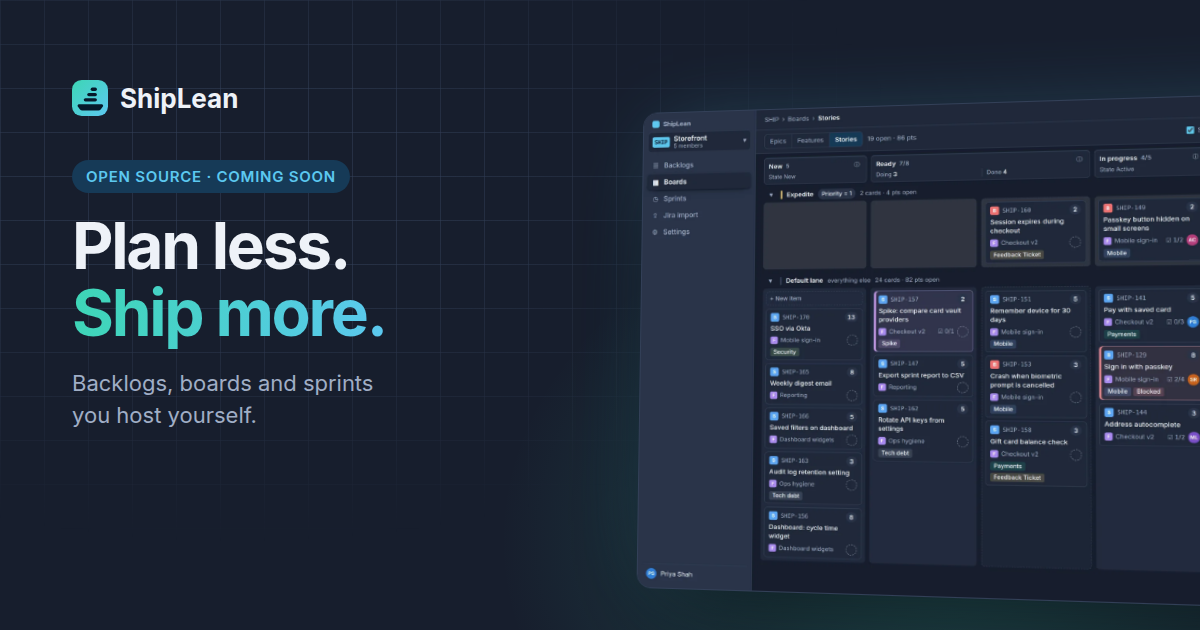
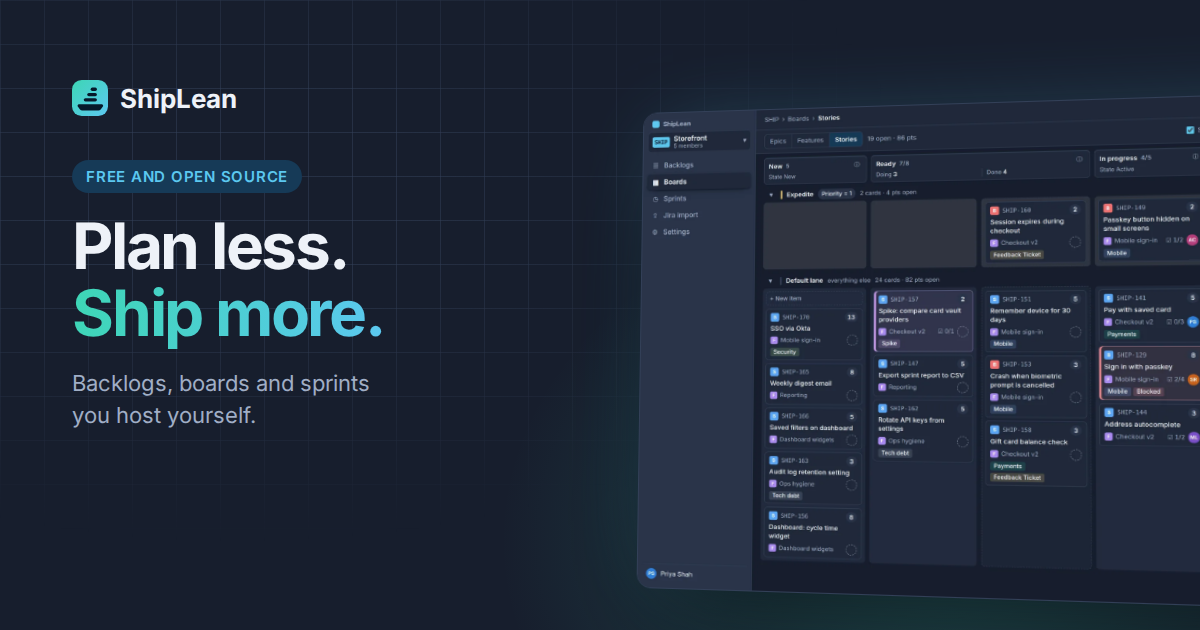
Site: mark the open-source release done, roadmap on Next
ShipLean is released, so the roadmap shows version 1, agents, sign-in and
the open-source release as done and Next as building. Coming-soon copy on
every page now says it is free to install today, CTAs point to the docs
and the ShipLean repo, and the social card drops Coming soon.

diff --git a/site/index.html b/site/index.html
@@ -4,14 +4,14 @@
 <meta charset="utf-8">
 <meta name="viewport" content="width=device-width, initial-scale=1">
 <title>ShipLean · AI-native, open-source Jira alternative for teams that ship</title>
-<meta name="description" content="ShipLean is a free, open-source, self-hosted Jira alternative: backlogs, boards and sprints, a forecast that shows which sprint each backlog item lands in, and an MCP server so your agents plan and work on the same backlog as the team. Coming soon.">
+<meta name="description" content="ShipLean is a free, open-source, self-hosted Jira alternative: backlogs, boards and sprints, a forecast that shows which sprint each backlog item lands in, and an MCP server so your agents plan and work on the same backlog as the team.">
 <meta name="theme-color" content="#e8eef7" media="(prefers-color-scheme: light)">
 <meta name="theme-color" content="#171e2d" media="(prefers-color-scheme: dark)">
 <link rel="canonical" href="https://shiplean.app/">
 <link rel="icon" href="favicon.svg" type="image/svg+xml">
 <meta property="og:type" content="website">
 <meta property="og:url" content="https://shiplean.app/">
-<meta property="og:title" content="ShipLean · AI-native, open-source Jira alternative, coming soon">
+<meta property="og:title" content="ShipLean · AI-native, open-source Jira alternative">
 <meta property="og:description" content="Backlogs, boards and sprints with a forecast from real velocity, and an MCP server so your agents plan and work on the same backlog as you.">
 <meta property="og:image" content="https://shiplean.app/og-image.png">
 <meta property="og:image:width" content="1200">
@@ -19,8 +19,8 @@
 <meta name="twitter:card" content="summary_large_image">
 <link rel="stylesheet" href="tokens.css">
 <link rel="stylesheet" href="site.css">
-<script type="application/ld+json">{"@context":"https://schema.org","@type":"SoftwareApplication","name":"ShipLean","description":"ShipLean is a free, open-source, self-hosted Jira alternative: backlogs, boards and sprints, a forecast that shows which sprint each backlog item lands in, and an MCP server so your agents plan and work on the same backlog as the team. Coming soon.","applicationCategory":"BusinessApplication","operatingSystem":"Linux (self-hosted)","url":"https://shiplean.app/","image":"https://shiplean.app/og-image.png","offers":{"@type":"Offer","price":"0","priceCurrency":"USD"}}</script>
-<script type="application/ld+json">{"@context":"https://schema.org","@type":"FAQPage","mainEntity":[{"@type":"Question","name":"Is ShipLean free?","acceptedAnswer":{"@type":"Answer","text":"Yes. ShipLean will be free and open source. It is not released yet, so follow the project on GitHub to hear when it is ready to install."}},{"@type":"Question","name":"Does it run on my own server?","acceptedAnswer":{"@type":"Answer","text":"Yes. ShipLean is self-hosted, and every team's projects can live on one server you control. See the self-hosted page for what you need."}},{"@type":"Question","name":"Does it import from Jira?","acceptedAnswer":{"@type":"Answer","text":"Yes. You can move a Jira project into ShipLean with its history, comments and sprints. You review how everything will come across before anything is imported, and your Jira stays exactly as it was."}},{"@type":"Question","name":"Which agents can connect?","acceptedAnswer":{"@type":"Answer","text":"Claude Code, Claude Desktop, Cursor and any other MCP client that supports OAuth. You approve each agent in the browser and can revoke it at any time."}}]}</script>
+<script type="application/ld+json">{"@context":"https://schema.org","@type":"SoftwareApplication","name":"ShipLean","description":"ShipLean is a free, open-source, self-hosted Jira alternative: backlogs, boards and sprints, a forecast that shows which sprint each backlog item lands in, and an MCP server so your agents plan and work on the same backlog as the team.","applicationCategory":"BusinessApplication","operatingSystem":"Linux (self-hosted)","url":"https://shiplean.app/","image":"https://shiplean.app/og-image.png","offers":{"@type":"Offer","price":"0","priceCurrency":"USD"}}</script>
+<script type="application/ld+json">{"@context":"https://schema.org","@type":"FAQPage","mainEntity":[{"@type":"Question","name":"Is ShipLean free?","acceptedAnswer":{"@type":"Answer","text":"Yes. ShipLean is free and open source, and you host it yourself. The docs show how to install it."}},{"@type":"Question","name":"Does it run on my own server?","acceptedAnswer":{"@type":"Answer","text":"Yes. ShipLean is self-hosted, and every team's projects can live on one server you control. See the self-hosted page for what you need."}},{"@type":"Question","name":"Does it import from Jira?","acceptedAnswer":{"@type":"Answer","text":"Yes. You can move a Jira project into ShipLean with its history, comments and sprints. You review how everything will come across before anything is imported, and your Jira stays exactly as it was."}},{"@type":"Question","name":"Which agents can connect?","acceptedAnswer":{"@type":"Answer","text":"Claude Code, Claude Desktop, Cursor and any other MCP client that supports OAuth. You approve each agent in the browser and can revoke it at any time."}}]}</script>
 </head>
 <body>
 
@@ -82,11 +82,11 @@
   <!-- ================= HERO ================= -->
   <div class="hero">
     <div class="wrap">
-      <span class="pill"><span class="tag">Coming soon</span><span class="dot" aria-hidden="true"></span>AI-native, free and open source, built in the open</span>
+      <span class="pill"><span class="tag">Open source</span><span class="dot" aria-hidden="true"></span>AI-native, free and open source, built in the open</span>
       <h1 class="h1-wide">AI-native project management.<br><span class="grad">built for humans and agents.</span></h1>
       <p class="lede">ShipLean is a free, open-source planning tool you host yourself. Rank a backlog, run a Kanban board, plan sprints or mix them, and see which sprint each backlog item is likely to land in. Connect Claude Code, Cursor or Claude Desktop over MCP and your agents can plan, pick up and report work on the same backlog, with their name on every change they make.</p>
       <div class="cta-row">
-        <a class="btn btn-primary" href="https://github.com/shiplean"><svg><use href="#i-gh"/></svg>Follow on GitHub</a>
+        <a class="btn btn-primary" href="https://docs.shiplean.app">Read the docs</a><a class="btn btn-ghost" href="https://github.com/ShipLean/ShipLean"><svg><use href="#i-gh"/></svg>View on GitHub</a>
         <a class="btn btn-ghost" href="#tour">Take the tour<svg><use href="#i-arrow"/></svg></a>
       </div>
       <div class="fine">
@@ -440,7 +440,7 @@
 
       <div class="spot" id="sign-in">
         <div class="copy">
-          <div class="eyebrow">Sign-in <span class="soon">Planned</span></div>
+          <div class="eyebrow">Sign-in</div>
           <h2>Bring your own sign&#8209;in.</h2>
           <p>Use the sign-in your company already has. Put ShipLean behind your identity proxy, such as Cloudflare Access, Authelia or Authentik, and people arrive signed in with their existing account. Nobody needs another password, and new people get an account on their first visit.</p>
           <div class="stat-row">
@@ -471,7 +471,7 @@
   <section id="faq" style="padding-top:0">
     <div class="wrap">
       <div class="sec-head center"><div class="eyebrow">Questions</div><h2>Common questions.</h2></div>
-      <div class="faq"><details><summary>Is ShipLean free?</summary><p>Yes. ShipLean will be free and open source. It is not released yet, so follow the project on GitHub to hear when it is ready to install.</p></details><details><summary>Does it run on my own server?</summary><p>Yes. ShipLean is self-hosted, and every team&#x27;s projects can live on one server you control. See the <a href="/self-hosted">self-hosted page</a> for what you need.</p></details><details><summary>Does it import from Jira?</summary><p>Yes. You can move a <a href="/jira-alternative">Jira project</a> into ShipLean with its history, comments and sprints. You review how everything will come across before anything is imported, and your Jira stays exactly as it was.</p></details><details><summary>Which agents can connect?</summary><p><a href="/mcp">Claude Code, Claude Desktop, Cursor and any other MCP client</a> that supports OAuth. You approve each agent in the browser and can revoke it at any time.</p></details></div>
+      <div class="faq"><details><summary>Is ShipLean free?</summary><p>Yes. ShipLean is free and open source, and you host it yourself. The docs show how to install it.</p></details><details><summary>Does it run on my own server?</summary><p>Yes. ShipLean is self-hosted, and every team&#x27;s projects can live on one server you control. See the <a href="/self-hosted">self-hosted page</a> for what you need.</p></details><details><summary>Does it import from Jira?</summary><p>Yes. You can move a <a href="/jira-alternative">Jira project</a> into ShipLean with its history, comments and sprints. You review how everything will come across before anything is imported, and your Jira stays exactly as it was.</p></details><details><summary>Which agents can connect?</summary><p><a href="/mcp">Claude Code, Claude Desktop, Cursor and any other MCP client</a> that supports OAuth. You approve each agent in the browser and can revoke it at any time.</p></details></div>
     </div>
   </section>
 
@@ -481,26 +481,26 @@
       <div class="oss">
         <div>
           <div class="eyebrow">Open source</div>
-          <h2>Built in the open.<br>Coming soon.</h2>
-          <p>ShipLean will be free and open source. Every screen is designed and version 1 is in progress. Follow the project on GitHub to see each change land and to hear when it is ready to install.</p>
+          <h2>Built in the open.<br>Free to host today.</h2>
+          <p>ShipLean is free and open source. Version 1 is out, with agents over MCP and bring-your-own sign-in. Pull the container image and run it on your own server, and follow the project on GitHub to see each change land.</p>
           <div class="cta-row" style="justify-content:flex-start">
-            <a class="btn btn-primary" href="https://github.com/shiplean"><svg><use href="#i-gh"/></svg>Follow on GitHub</a>
+            <a class="btn btn-primary" href="https://docs.shiplean.app">Read the docs</a><a class="btn btn-ghost" href="https://github.com/ShipLean/ShipLean"><svg><use href="#i-gh"/></svg>View on GitHub</a>
           </div>
         </div>
         <ol class="road">
           <li class="done"><span class="node"><svg><use href="#i-check"/></svg></span><div><b>Design<span class="badge">Done</span></b><span>Every v1 screen, light and dark</span></div></li>
-          <li class="now"><span class="node"></span><div><b>Version 1<span class="badge">Building</span></b><span>Backlogs, boards, sprints, the taskboard, work items, settings and Jira import</span></div></li>
-          <li class="now"><span class="node"></span><div><b>Agents over MCP<span class="badge">Building</span></b><span>26 tools, browser consent, PR webhooks and a planning guide for agents working in parallel</span></div></li>
-          <li><span class="node"></span><div><b>Bring your own sign-in</b><span>Trust the identity proxy you already run</span></div></li>
-          <li><span class="node"></span><div><b>Open source release</b><span>Free to download and host yourself</span></div></li>
-          <li><span class="node"></span><div><b>Later</b><span>Roadmaps and delivery plans across teams</span></div></li>
+          <li class="done"><span class="node"><svg><use href="#i-check"/></svg></span><div><b>Version 1<span class="badge">Done</span></b><span>Backlogs, boards, sprints, the taskboard, work items, settings and Jira import</span></div></li>
+          <li class="done"><span class="node"><svg><use href="#i-check"/></svg></span><div><b>Agents over MCP<span class="badge">Done</span></b><span>26 tools, browser consent, PR webhooks and a planning guide for agents working in parallel</span></div></li>
+          <li class="done"><span class="node"><svg><use href="#i-check"/></svg></span><div><b>Bring your own sign-in<span class="badge">Done</span></b><span>Trust the identity proxy you already run</span></div></li>
+          <li class="done"><span class="node"><svg><use href="#i-check"/></svg></span><div><b>Open source release<span class="badge">Done</span></b><span>Free to download and host yourself</span></div></li>
+          <li class="now"><span class="node"></span><div><b>Next<span class="badge">Building</span></b><span>Roadmaps and delivery plans across teams</span></div></li>
         </ol>
       </div>
 
       <div class="closing">
         <h2>Plan the sprint.<br><span class="grad">Then go ship it.</span></h2>
         <div class="cta-row">
-          <a class="btn btn-primary" href="https://github.com/shiplean"><svg><use href="#i-gh"/></svg>Follow on GitHub</a>
+          <a class="btn btn-primary" href="https://docs.shiplean.app">Read the docs</a><a class="btn btn-ghost" href="https://github.com/ShipLean/ShipLean"><svg><use href="#i-gh"/></svg>View on GitHub</a>
         </div>
       </div>
     </div>

diff --git a/site/vs/linear.html b/site/vs/linear.html
@@ -72,11 +72,11 @@
 <main>
   <div class="hero page">
     <div class="wrap">
-      <span class="pill"><span class="tag">Coming soon</span><span class="dot" aria-hidden="true"></span>ShipLean and Linear, side by side</span>
+      <span class="pill"><span class="tag">Open source</span><span class="dot" aria-hidden="true"></span>ShipLean and Linear, side by side</span>
       <h1>ShipLean vs <span class="grad">Linear.</span></h1>
       <p class="lede">Linear is a fast, polished issue tracker for software teams, with cycles, projects and roadmaps. It is a cloud service. Here is a fair look at where they differ.</p>
       <div class="cta-row">
-        <a class="btn btn-primary" href="https://github.com/shiplean"><svg><use href="#i-gh"/></svg>Follow on GitHub</a>
+        <a class="btn btn-primary" href="https://docs.shiplean.app">Read the docs</a><a class="btn btn-ghost" href="https://github.com/ShipLean/ShipLean"><svg><use href="#i-gh"/></svg>View on GitHub</a>
         
       </div>
     </div>
@@ -86,7 +86,7 @@
       <div class="sec-head center"><div class="eyebrow">At a glance</div><h2>Linear and ShipLean.</h2></div>
       <table class="compare">
         <thead><tr><th></th><th>Linear</th><th>ShipLean</th></tr></thead>
-        <tbody><tr><th scope="row">Open source</th><td>No</td><td>Yes, once released</td></tr><tr><th scope="row">Self-hosted</th><td>No, cloud only</td><td>Yes, one container and Postgres</td></tr><tr><th scope="row">Price</th><td>Per seat</td><td>Free</td></tr><tr><th scope="row">Agents over MCP</th><td>Check Linear&#8217;s current docs</td><td>Built in, with planning tools for parallel agents</td></tr><tr><th scope="row">Jira import</th><td>Check Linear&#8217;s current docs</td><td>Project, history, comments and sprints</td></tr><tr><th scope="row">Available today</th><td>Yes</td><td>Coming soon</td></tr></tbody>
+        <tbody><tr><th scope="row">Open source</th><td>No</td><td>Yes</td></tr><tr><th scope="row">Self-hosted</th><td>No, cloud only</td><td>Yes, one container and Postgres</td></tr><tr><th scope="row">Price</th><td>Per seat</td><td>Free</td></tr><tr><th scope="row">Agents over MCP</th><td>Check Linear&#8217;s current docs</td><td>Built in, with planning tools for parallel agents</td></tr><tr><th scope="row">Jira import</th><td>Check Linear&#8217;s current docs</td><td>Project, history, comments and sprints</td></tr><tr><th scope="row">Available today</th><td>Yes</td><td>Yes</td></tr></tbody>
       </table>
       <p class="muted" style="font-size:14px;margin-top:14px">Written from what we know today. Tools change, so check Linear&#8217;s own documentation for the latest.</p>
     </div>
@@ -95,7 +95,7 @@
     <div class="wrap">
       <div class="pick" style="margin-top:0">
         <div class="card"><h3>What Linear is good at</h3><ul><li>A fast, keyboard-driven interface that teams enjoy using.</li><li>Cycles, projects and roadmaps in one product.</li><li>Nothing to run: it is a hosted service.</li></ul></div>
-        <div class="card"><h3>Where ShipLean differs</h3><ul><li>ShipLean runs on your own server. Linear is cloud-only, so your data lives with Linear.</li><li>ShipLean will be free and open source, with no per-seat bill.</li><li>ShipLean has an MCP server and a planning guide so agents work the same backlog as people.</li></ul></div>
+        <div class="card"><h3>Where ShipLean differs</h3><ul><li>ShipLean runs on your own server. Linear is cloud-only, so your data lives with Linear.</li><li>ShipLean is free and open source, with no per-seat bill.</li><li>ShipLean has an MCP server and a planning guide so agents work the same backlog as people.</li></ul></div>
       </div>
     </div>
   </section>
@@ -112,8 +112,8 @@
     <div class="wrap">
       <div class="closing" style="padding-top:0">
         <h2>Plan the sprint.<br><span class="grad">Then go ship it.</span></h2>
-        <div class="cta-row"><a class="btn btn-primary" href="https://github.com/shiplean"><svg><use href="#i-gh"/></svg>Follow on GitHub</a></div>
-        <p class="muted" style="margin-top:16px">ShipLean is coming soon. Follow the project on GitHub to hear when it is ready to install.</p>
+        <div class="cta-row"><a class="btn btn-primary" href="https://docs.shiplean.app">Read the docs</a><a class="btn btn-ghost" href="https://github.com/ShipLean/ShipLean"><svg><use href="#i-gh"/></svg>View on GitHub</a></div>
+        <p class="muted" style="margin-top:16px">ShipLean is free to install today. The <a href="https://docs.shiplean.app">docs</a> show how to run it on your own server.</p>
       </div>
       <div class="more"><a href="/jira-alternative"><b>Jira alternative</b><span>Backlogs, boards, sprints and a Jira import</span></a><a href="/mcp"><b>ShipLean for agents</b><span>Claude Code, Cursor and any MCP client</span></a><a href="/vs/taiga"><b>ShipLean vs Taiga</b><span>A fair comparison</span></a></div>
     </div>

diff --git a/site/self-hosted.html b/site/self-hosted.html
@@ -72,11 +72,11 @@
 <main>
   <div class="hero page">
     <div class="wrap">
-      <span class="pill"><span class="tag">Coming soon</span><span class="dot" aria-hidden="true"></span>Free, open source, self-hosted</span>
+      <span class="pill"><span class="tag">Open source</span><span class="dot" aria-hidden="true"></span>Free, open source, self-hosted</span>
       <h1>Self-hosted, open-source <span class="grad">project management.</span></h1>
       <p class="lede">Run ShipLean on your own server, next to the rest of your tools. Your backlog, your history and your agents&#8217; work stay with you.</p>
       <div class="cta-row">
-        <a class="btn btn-primary" href="https://github.com/shiplean"><svg><use href="#i-gh"/></svg>Follow on GitHub</a>
+        <a class="btn btn-primary" href="https://docs.shiplean.app">Read the docs</a><a class="btn btn-ghost" href="https://github.com/ShipLean/ShipLean"><svg><use href="#i-gh"/></svg>View on GitHub</a>
         
       </div>
     </div>
@@ -95,8 +95,8 @@
     <div class="wrap">
       <div class="prose">
         <div class="eyebrow">Where the image lives</div>
-        <h2>Not published yet.</h2>
-        <p>ShipLean is not released. Once it is, the container image will be public and this page will say where to pull it from. Until then, follow the <a href="https://github.com/shiplean">ShipLean organisation on GitHub</a> to see each change land.</p>
+        <h2>Pull it from GitHub.</h2>
+        <p>The container image is public at <code>ghcr.io/shiplean/shiplean</code>. The <a href="https://docs.shiplean.app">install guide</a> shows how to run it with Postgres, and the <a href="https://github.com/ShipLean/ShipLean">ShipLean repository</a> shows each change as it lands.</p>
       </div>
     </div>
   </section>
@@ -104,9 +104,9 @@
     <div class="wrap">
       <div class="spot top-gap">
         <div class="copy">
-          <div class="eyebrow">Sign-in <span class="soon">Planned</span></div>
+          <div class="eyebrow">Sign-in</div>
           <h2>Bring your own sign&#8209;in.</h2>
-          <p>Put ShipLean behind the identity proxy you already run, such as Cloudflare Access, Authelia or Authentik, and people arrive signed in with their existing account. This is planned and not built yet.</p>
+          <p>Put ShipLean behind the identity proxy you already run, such as Cloudflare Access, Authelia or Authentik, and people arrive signed in with their existing account.</p>
         </div>
         <div class="idflow" aria-label="Sign-in flow: a person signs in at your identity provider, your proxy tells ShipLean who they are, and ShipLean signs them in">
           <div class="idstep"><span class="ic"><svg><use href="#i-people"/></svg></span><span><b>Your team</b><span class="muted">signs in once, at your identity provider</span></span></div>
@@ -131,8 +131,8 @@
     <div class="wrap">
       <div class="closing" style="padding-top:0">
         <h2>Your server.<br><span class="grad">Your backlog.</span></h2>
-        <div class="cta-row"><a class="btn btn-primary" href="https://github.com/shiplean"><svg><use href="#i-gh"/></svg>Follow on GitHub</a></div>
-        <p class="muted" style="margin-top:16px">ShipLean is coming soon. Follow the project on GitHub to hear when it is ready to install.</p>
+        <div class="cta-row"><a class="btn btn-primary" href="https://docs.shiplean.app">Read the docs</a><a class="btn btn-ghost" href="https://github.com/ShipLean/ShipLean"><svg><use href="#i-gh"/></svg>View on GitHub</a></div>
+        <p class="muted" style="margin-top:16px">ShipLean is free to install today. The <a href="https://docs.shiplean.app">docs</a> show how to run it on your own server.</p>
       </div>
       <div class="more"><a href="/jira-alternative"><b>Jira alternative</b><span>Backlogs, boards, sprints and a Jira import</span></a><a href="/mcp"><b>ShipLean for agents</b><span>Claude Code, Cursor and any MCP client</span></a><a href="/jira-data-center"><b>Moving off Jira Data Center</b><span>The dates, and what comes across</span></a></div>
     </div>

diff --git a/site/vs/openproject.html b/site/vs/openproject.html
@@ -72,11 +72,11 @@
 <main>
   <div class="hero page">
     <div class="wrap">
-      <span class="pill"><span class="tag">Coming soon</span><span class="dot" aria-hidden="true"></span>ShipLean and OpenProject, side by side</span>
+      <span class="pill"><span class="tag">Open source</span><span class="dot" aria-hidden="true"></span>ShipLean and OpenProject, side by side</span>
       <h1>ShipLean vs <span class="grad">OpenProject.</span></h1>
       <p class="lede">OpenProject is an open-source project management suite. It covers classic and agile project management, with work packages, Gantt charts, time tracking, boards and a wiki. Here is a fair look at where they differ.</p>
       <div class="cta-row">
-        <a class="btn btn-primary" href="https://github.com/shiplean"><svg><use href="#i-gh"/></svg>Follow on GitHub</a>
+        <a class="btn btn-primary" href="https://docs.shiplean.app">Read the docs</a><a class="btn btn-ghost" href="https://github.com/ShipLean/ShipLean"><svg><use href="#i-gh"/></svg>View on GitHub</a>
         
       </div>
     </div>
@@ -86,7 +86,7 @@
       <div class="sec-head center"><div class="eyebrow">At a glance</div><h2>OpenProject and ShipLean.</h2></div>
       <table class="compare">
         <thead><tr><th></th><th>OpenProject</th><th>ShipLean</th></tr></thead>
-        <tbody><tr><th scope="row">Open source</th><td>Yes</td><td>Yes, once released</td></tr><tr><th scope="row">Self-hosted</th><td>Yes</td><td>Yes, one container and Postgres</td></tr><tr><th scope="row">Best at</th><td>Classic and agile project management, Gantt, time tracking</td><td>Backlog, boards, sprints, forecasts</td></tr><tr><th scope="row">Agents over MCP</th><td>Check OpenProject&#8217;s current docs</td><td>Built in</td></tr><tr><th scope="row">Jira import</th><td>Check OpenProject&#8217;s current docs</td><td>Project, history, comments and sprints</td></tr><tr><th scope="row">Available today</th><td>Yes</td><td>Coming soon</td></tr></tbody>
+        <tbody><tr><th scope="row">Open source</th><td>Yes</td><td>Yes</td></tr><tr><th scope="row">Self-hosted</th><td>Yes</td><td>Yes, one container and Postgres</td></tr><tr><th scope="row">Best at</th><td>Classic and agile project management, Gantt, time tracking</td><td>Backlog, boards, sprints, forecasts</td></tr><tr><th scope="row">Agents over MCP</th><td>Check OpenProject&#8217;s current docs</td><td>Built in</td></tr><tr><th scope="row">Jira import</th><td>Check OpenProject&#8217;s current docs</td><td>Project, history, comments and sprints</td></tr><tr><th scope="row">Available today</th><td>Yes</td><td>Yes</td></tr></tbody>
       </table>
       <p class="muted" style="font-size:14px;margin-top:14px">Written from what we know today. Tools change, so check OpenProject&#8217;s own documentation for the latest.</p>
     </div>
@@ -112,8 +112,8 @@
     <div class="wrap">
       <div class="closing" style="padding-top:0">
         <h2>Plan the sprint.<br><span class="grad">Then go ship it.</span></h2>
-        <div class="cta-row"><a class="btn btn-primary" href="https://github.com/shiplean"><svg><use href="#i-gh"/></svg>Follow on GitHub</a></div>
-        <p class="muted" style="margin-top:16px">ShipLean is coming soon. Follow the project on GitHub to hear when it is ready to install.</p>
+        <div class="cta-row"><a class="btn btn-primary" href="https://docs.shiplean.app">Read the docs</a><a class="btn btn-ghost" href="https://github.com/ShipLean/ShipLean"><svg><use href="#i-gh"/></svg>View on GitHub</a></div>
+        <p class="muted" style="margin-top:16px">ShipLean is free to install today. The <a href="https://docs.shiplean.app">docs</a> show how to run it on your own server.</p>
       </div>
       <div class="more"><a href="/jira-alternative"><b>Jira alternative</b><span>Backlogs, boards, sprints and a Jira import</span></a><a href="/mcp"><b>ShipLean for agents</b><span>Claude Code, Cursor and any MCP client</span></a><a href="/vs/taiga"><b>ShipLean vs Taiga</b><span>A fair comparison</span></a></div>
     </div>

diff --git a/site/vs/plane.html b/site/vs/plane.html
@@ -72,11 +72,11 @@
 <main>
   <div class="hero page">
     <div class="wrap">
-      <span class="pill"><span class="tag">Coming soon</span><span class="dot" aria-hidden="true"></span>ShipLean and Plane, side by side</span>
+      <span class="pill"><span class="tag">Open source</span><span class="dot" aria-hidden="true"></span>ShipLean and Plane, side by side</span>
       <h1>ShipLean vs <span class="grad">Plane.</span></h1>
       <p class="lede">Plane is an open-source work-tracking tool aimed at teams that use Jira or Linear, with issues, cycles, modules and views. It is available hosted by Plane or self-hosted. Here is a fair look at where they differ.</p>
       <div class="cta-row">
-        <a class="btn btn-primary" href="https://github.com/shiplean"><svg><use href="#i-gh"/></svg>Follow on GitHub</a>
+        <a class="btn btn-primary" href="https://docs.shiplean.app">Read the docs</a><a class="btn btn-ghost" href="https://github.com/ShipLean/ShipLean"><svg><use href="#i-gh"/></svg>View on GitHub</a>
         
       </div>
     </div>
@@ -86,7 +86,7 @@
       <div class="sec-head center"><div class="eyebrow">At a glance</div><h2>Plane and ShipLean.</h2></div>
       <table class="compare">
         <thead><tr><th></th><th>Plane</th><th>ShipLean</th></tr></thead>
-        <tbody><tr><th scope="row">Open source</th><td>Yes</td><td>Yes, once released</td></tr><tr><th scope="row">Self-hosted</th><td>Yes</td><td>Yes, one container and Postgres</td></tr><tr><th scope="row">Sprints</th><td>Cycles</td><td>Sprints, capacity and forecast</td></tr><tr><th scope="row">Agents over MCP</th><td>Check Plane&#8217;s current docs</td><td>Built in, with planning tools for parallel agents</td></tr><tr><th scope="row">Jira import</th><td>Check Plane&#8217;s current docs</td><td>Project, history, comments and sprints</td></tr><tr><th scope="row">Available today</th><td>Yes</td><td>Coming soon</td></tr></tbody>
+        <tbody><tr><th scope="row">Open source</th><td>Yes</td><td>Yes</td></tr><tr><th scope="row">Self-hosted</th><td>Yes</td><td>Yes, one container and Postgres</td></tr><tr><th scope="row">Sprints</th><td>Cycles</td><td>Sprints, capacity and forecast</td></tr><tr><th scope="row">Agents over MCP</th><td>Check Plane&#8217;s current docs</td><td>Built in, with planning tools for parallel agents</td></tr><tr><th scope="row">Jira import</th><td>Check Plane&#8217;s current docs</td><td>Project, history, comments and sprints</td></tr><tr><th scope="row">Available today</th><td>Yes</td><td>Yes</td></tr></tbody>
       </table>
       <p class="muted" style="font-size:14px;margin-top:14px">Written from what we know today. Tools change, so check Plane&#8217;s own documentation for the latest.</p>
     </div>
@@ -112,8 +112,8 @@
     <div class="wrap">
       <div class="closing" style="padding-top:0">
         <h2>Plan the sprint.<br><span class="grad">Then go ship it.</span></h2>
-        <div class="cta-row"><a class="btn btn-primary" href="https://github.com/shiplean"><svg><use href="#i-gh"/></svg>Follow on GitHub</a></div>
-        <p class="muted" style="margin-top:16px">ShipLean is coming soon. Follow the project on GitHub to hear when it is ready to install.</p>
+        <div class="cta-row"><a class="btn btn-primary" href="https://docs.shiplean.app">Read the docs</a><a class="btn btn-ghost" href="https://github.com/ShipLean/ShipLean"><svg><use href="#i-gh"/></svg>View on GitHub</a></div>
+        <p class="muted" style="margin-top:16px">ShipLean is free to install today. The <a href="https://docs.shiplean.app">docs</a> show how to run it on your own server.</p>
       </div>
       <div class="more"><a href="/jira-alternative"><b>Jira alternative</b><span>Backlogs, boards, sprints and a Jira import</span></a><a href="/mcp"><b>ShipLean for agents</b><span>Claude Code, Cursor and any MCP client</span></a><a href="/vs/taiga"><b>ShipLean vs Taiga</b><span>A fair comparison</span></a></div>
     </div>

diff --git a/site/jira-alternative.html b/site/jira-alternative.html
@@ -72,11 +72,11 @@
 <main>
   <div class="hero page">
     <div class="wrap">
-      <span class="pill"><span class="tag">Coming soon</span><span class="dot" aria-hidden="true"></span>An open-source, self-hosted Jira alternative</span>
+      <span class="pill"><span class="tag">Open source</span><span class="dot" aria-hidden="true"></span>An open-source, self-hosted Jira alternative</span>
       <h1>An open-source, self-hosted <span class="grad">Jira alternative.</span></h1>
       <p class="lede">ShipLean has what a Jira team expects: a ranked backlog, Scrum and Kanban boards, sprints, capacity and forecasts. It is free, it runs on your own server, and your agents work the same backlog over MCP.</p>
       <div class="cta-row">
-        <a class="btn btn-primary" href="https://github.com/shiplean"><svg><use href="#i-gh"/></svg>Follow on GitHub</a>
+        <a class="btn btn-primary" href="https://docs.shiplean.app">Read the docs</a><a class="btn btn-ghost" href="https://github.com/ShipLean/ShipLean"><svg><use href="#i-gh"/></svg>View on GitHub</a>
         <a class="btn btn-ghost" href="#import">Bring your Jira project<svg><use href="#i-arrow"/></svg></a>
       </div>
     </div>
@@ -98,7 +98,7 @@
     <div class="wrap">
       <div class="sec-head center"><div class="eyebrow">What is different</div><h2>Not a copy of Jira.</h2></div>
       <div class="pillars two" style="margin-top:40px">
-        <div class="card"><div class="ic"><svg><use href="#i-server"/></svg></div><h3>Free, open source and yours</h3><p>ShipLean will be free to download and host. Your data lives on your own server, and there is no per-seat bill.</p></div>
+        <div class="card"><div class="ic"><svg><use href="#i-server"/></svg></div><h3>Free, open source and yours</h3><p>ShipLean is free to download and host. Your data lives on your own server, and there is no per-seat bill.</p></div>
         <div class="card"><div class="ic"><svg><use href="#i-agent"/></svg></div><h3>Agents work the same backlog</h3><p>An MCP server lets Claude Code, Cursor and other agents read and update the same backlog, boards and sprints as the team. <a href="/mcp" style="color:var(--color-accent)">See how agents connect</a>.</p></div>
       </div>
     </div>
@@ -128,8 +128,6 @@
       <div class="notyet">
         <h3>What ShipLean does not do yet</h3>
         <ul>
-          <li>It is not released. Version 1 is being built in the open, and the open-source release comes after it.</li>
-          <li>Bring-your-own sign-in through an identity proxy is planned, not built.</li>
           <li>Roadmaps and delivery plans across several teams are for later.</li>
         </ul>
       </div>
@@ -139,8 +137,8 @@
     <div class="wrap">
       <div class="closing" style="padding-top:0">
         <h2>Plan the sprint.<br><span class="grad">Then go ship it.</span></h2>
-        <div class="cta-row"><a class="btn btn-primary" href="https://github.com/shiplean"><svg><use href="#i-gh"/></svg>Follow on GitHub</a></div>
-        <p class="muted" style="margin-top:16px">ShipLean is coming soon. Follow the project on GitHub to hear when it is ready to install.</p>
+        <div class="cta-row"><a class="btn btn-primary" href="https://docs.shiplean.app">Read the docs</a><a class="btn btn-ghost" href="https://github.com/ShipLean/ShipLean"><svg><use href="#i-gh"/></svg>View on GitHub</a></div>
+        <p class="muted" style="margin-top:16px">ShipLean is free to install today. The <a href="https://docs.shiplean.app">docs</a> show how to run it on your own server.</p>
       </div>
       <div class="more"><a href="/jira-data-center"><b>Moving off Jira Data Center</b><span>The dates, and what comes across</span></a><a href="/mcp"><b>ShipLean for agents</b><span>Claude Code, Cursor and any MCP client</span></a><a href="/self-hosted"><b>Self-hosted</b><span>One container and Postgres</span></a></div>
     </div>

diff --git a/site/vs/taiga.html b/site/vs/taiga.html
@@ -72,11 +72,11 @@
 <main>
   <div class="hero page">
     <div class="wrap">
-      <span class="pill"><span class="tag">Coming soon</span><span class="dot" aria-hidden="true"></span>ShipLean and Taiga, side by side</span>
+      <span class="pill"><span class="tag">Open source</span><span class="dot" aria-hidden="true"></span>ShipLean and Taiga, side by side</span>
       <h1>ShipLean vs <span class="grad">Taiga.</span></h1>
       <p class="lede">Taiga is an open-source agile project management tool with Scrum and Kanban, user stories, epics and a wiki. You can use it hosted by Taiga or run it yourself. Here is a fair look at where they differ.</p>
       <div class="cta-row">
-        <a class="btn btn-primary" href="https://github.com/shiplean"><svg><use href="#i-gh"/></svg>Follow on GitHub</a>
+        <a class="btn btn-primary" href="https://docs.shiplean.app">Read the docs</a><a class="btn btn-ghost" href="https://github.com/ShipLean/ShipLean"><svg><use href="#i-gh"/></svg>View on GitHub</a>
         
       </div>
     </div>
@@ -86,7 +86,7 @@
       <div class="sec-head center"><div class="eyebrow">At a glance</div><h2>Taiga and ShipLean.</h2></div>
       <table class="compare">
         <thead><tr><th></th><th>Taiga</th><th>ShipLean</th></tr></thead>
-        <tbody><tr><th scope="row">Open source</th><td>Yes</td><td>Yes, once released</td></tr><tr><th scope="row">Self-hosted</th><td>Yes</td><td>Yes, one container and Postgres</td></tr><tr><th scope="row">Scrum and Kanban</th><td>Yes</td><td>Yes</td></tr><tr><th scope="row">Agents over MCP</th><td>Check Taiga&#8217;s current docs</td><td>Built in</td></tr><tr><th scope="row">Jira import</th><td>Check Taiga&#8217;s current docs</td><td>Project, history, comments and sprints</td></tr><tr><th scope="row">Available today</th><td>Yes</td><td>Coming soon</td></tr></tbody>
+        <tbody><tr><th scope="row">Open source</th><td>Yes</td><td>Yes</td></tr><tr><th scope="row">Self-hosted</th><td>Yes</td><td>Yes, one container and Postgres</td></tr><tr><th scope="row">Scrum and Kanban</th><td>Yes</td><td>Yes</td></tr><tr><th scope="row">Agents over MCP</th><td>Check Taiga&#8217;s current docs</td><td>Built in</td></tr><tr><th scope="row">Jira import</th><td>Check Taiga&#8217;s current docs</td><td>Project, history, comments and sprints</td></tr><tr><th scope="row">Available today</th><td>Yes</td><td>Yes</td></tr></tbody>
       </table>
       <p class="muted" style="font-size:14px;margin-top:14px">Written from what we know today. Tools change, so check Taiga&#8217;s own documentation for the latest.</p>
     </div>
@@ -112,8 +112,8 @@
     <div class="wrap">
       <div class="closing" style="padding-top:0">
         <h2>Plan the sprint.<br><span class="grad">Then go ship it.</span></h2>
-        <div class="cta-row"><a class="btn btn-primary" href="https://github.com/shiplean"><svg><use href="#i-gh"/></svg>Follow on GitHub</a></div>
-        <p class="muted" style="margin-top:16px">ShipLean is coming soon. Follow the project on GitHub to hear when it is ready to install.</p>
+        <div class="cta-row"><a class="btn btn-primary" href="https://docs.shiplean.app">Read the docs</a><a class="btn btn-ghost" href="https://github.com/ShipLean/ShipLean"><svg><use href="#i-gh"/></svg>View on GitHub</a></div>
+        <p class="muted" style="margin-top:16px">ShipLean is free to install today. The <a href="https://docs.shiplean.app">docs</a> show how to run it on your own server.</p>
       </div>
       <div class="more"><a href="/jira-alternative"><b>Jira alternative</b><span>Backlogs, boards, sprints and a Jira import</span></a><a href="/mcp"><b>ShipLean for agents</b><span>Claude Code, Cursor and any MCP client</span></a><a href="/vs/openproject"><b>ShipLean vs OpenProject</b><span>A fair comparison</span></a></div>
     </div>

diff --git a/site/jira-data-center.html b/site/jira-data-center.html
@@ -72,11 +72,11 @@
 <main>
   <div class="hero page">
     <div class="wrap">
-      <span class="pill"><span class="tag">Coming soon</span><span class="dot" aria-hidden="true"></span>For teams on Jira Data Center</span>
+      <span class="pill"><span class="tag">Open source</span><span class="dot" aria-hidden="true"></span>For teams on Jira Data Center</span>
       <h1>Moving off <span class="grad">Jira Data Center.</span></h1>
       <p class="lede">Atlassian has set an end-of-life date for Data Center. If your team chose to host Jira itself, ShipLean is a planning tool you can host yourself too, and it brings your Jira history with it.</p>
       <div class="cta-row">
-        <a class="btn btn-primary" href="https://github.com/shiplean"><svg><use href="#i-gh"/></svg>Follow on GitHub</a>
+        <a class="btn btn-primary" href="https://docs.shiplean.app">Read the docs</a><a class="btn btn-ghost" href="https://github.com/ShipLean/ShipLean"><svg><use href="#i-gh"/></svg>View on GitHub</a>
         <a class="btn btn-ghost" href="https://www.atlassian.com/licensing/data-center-end-of-life">Atlassian&#8217;s notice<svg><use href="#i-right"/></svg></a>
       </div>
     </div>
@@ -100,7 +100,7 @@
       <div class="sec-head center"><div class="eyebrow">Why self-hosting matters</div><h2>A tool that stays on your side of the firewall.</h2></div>
       <div class="pillars">
         <div class="card"><div class="ic"><svg><use href="#i-server"/></svg></div><h3>Your data stays on your infrastructure</h3><p>You chose on-prem on purpose. ShipLean runs on your own server, so your backlog and its history stay where you put them.</p></div>
-        <div class="card"><div class="ic"><svg><use href="#i-shield"/></svg></div><h3>No per-seat cloud bill</h3><p>ShipLean will be free and open source. Adding a team does not change what you pay.</p></div>
+        <div class="card"><div class="ic"><svg><use href="#i-shield"/></svg></div><h3>No per-seat cloud bill</h3><p>ShipLean is free and open source. Adding a team does not change what you pay.</p></div>
         <div class="card"><div class="ic"><svg><use href="#i-agent"/></svg></div><h3>Ready for agents</h3><p>Your agents work the same backlog as your people over MCP, with access you approve and can revoke.</p></div>
       </div>
     </div>
@@ -125,8 +125,8 @@
     <div class="wrap">
       <div class="closing" style="padding-top:0">
         <h2>Take your time.<br><span class="grad">Your Jira stays as it is.</span></h2>
-        <div class="cta-row"><a class="btn btn-primary" href="https://github.com/shiplean"><svg><use href="#i-gh"/></svg>Follow on GitHub</a></div>
-        <p class="muted" style="margin-top:16px">ShipLean is coming soon. Follow the project on GitHub to hear when it is ready to install.</p>
+        <div class="cta-row"><a class="btn btn-primary" href="https://docs.shiplean.app">Read the docs</a><a class="btn btn-ghost" href="https://github.com/ShipLean/ShipLean"><svg><use href="#i-gh"/></svg>View on GitHub</a></div>
+        <p class="muted" style="margin-top:16px">ShipLean is free to install today. The <a href="https://docs.shiplean.app">docs</a> show how to run it on your own server.</p>
       </div>
       <div class="more"><a href="/jira-alternative"><b>Jira alternative</b><span>Backlogs, boards, sprints and a Jira import</span></a><a href="/self-hosted"><b>Self-hosted</b><span>One container and Postgres</span></a><a href="/mcp"><b>ShipLean for agents</b><span>Claude Code, Cursor and any MCP client</span></a></div>
     </div>

diff --git a/site/mcp.html b/site/mcp.html
@@ -72,11 +72,11 @@
 <main>
   <div class="hero page">
     <div class="wrap">
-      <span class="pill"><span class="tag">Coming soon</span><span class="dot" aria-hidden="true"></span>MCP server built in</span>
+      <span class="pill"><span class="tag">Open source</span><span class="dot" aria-hidden="true"></span>MCP server built in</span>
       <h1>Project management for <span class="grad">coding agents.</span></h1>
       <p class="lede">Connect Claude Code, Codex, Cursor or Claude Desktop with one command. Agents plan and work on the same backlog as your team, and a person sees the same board.</p>
       <div class="cta-row">
-        <a class="btn btn-primary" href="https://github.com/shiplean"><svg><use href="#i-gh"/></svg>Follow on GitHub</a>
+        <a class="btn btn-primary" href="https://docs.shiplean.app">Read the docs</a><a class="btn btn-ghost" href="https://github.com/ShipLean/ShipLean"><svg><use href="#i-gh"/></svg>View on GitHub</a>
         
       </div>
     </div>
@@ -172,8 +172,8 @@
     <div class="wrap">
       <div class="closing" style="padding-top:0">
         <h2>Give your agents<br><span class="grad">a backlog to work from.</span></h2>
-        <div class="cta-row"><a class="btn btn-primary" href="https://github.com/shiplean"><svg><use href="#i-gh"/></svg>Follow on GitHub</a></div>
-        <p class="muted" style="margin-top:16px">ShipLean is coming soon. Follow the project on GitHub to hear when it is ready to install.</p>
+        <div class="cta-row"><a class="btn btn-primary" href="https://docs.shiplean.app">Read the docs</a><a class="btn btn-ghost" href="https://github.com/ShipLean/ShipLean"><svg><use href="#i-gh"/></svg>View on GitHub</a></div>
+        <p class="muted" style="margin-top:16px">ShipLean is free to install today. The <a href="https://docs.shiplean.app">docs</a> show how to run it on your own server.</p>
       </div>
       <div class="more"><a href="/jira-alternative"><b>Jira alternative</b><span>Backlogs, boards, sprints and a Jira import</span></a><a href="/self-hosted"><b>Self-hosted</b><span>One container and Postgres</span></a><a href="/jira-data-center"><b>Moving off Jira Data Center</b><span>The dates, and what comes across</span></a></div>
     </div>

diff --git a/design/social/og-card.html b/design/social/og-card.html
@@ -45,7 +45,7 @@
 <body>
   <div class="copy">
     <div class="brand"><img src="../brand/shiplean-mark-dark.svg" alt="">ShipLean</div>
-    <div class="pill">Open source · Coming soon</div>
+    <div class="pill">Free and open source</div>
     <h1>Plan less.<br><span class="grad">Ship more.</span></h1>
     <p>Backlogs, boards and sprints<br>you host yourself.</p>
   </div>
